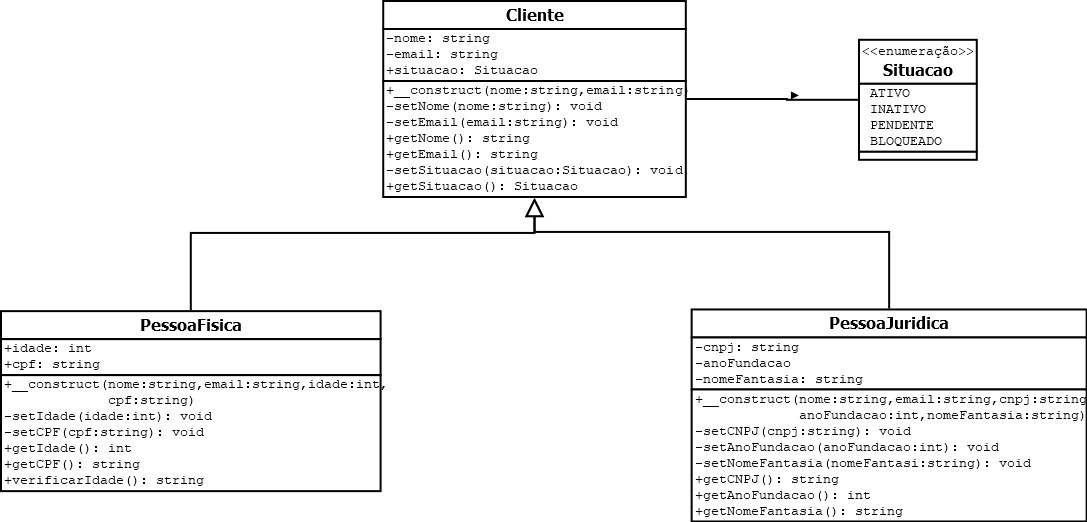
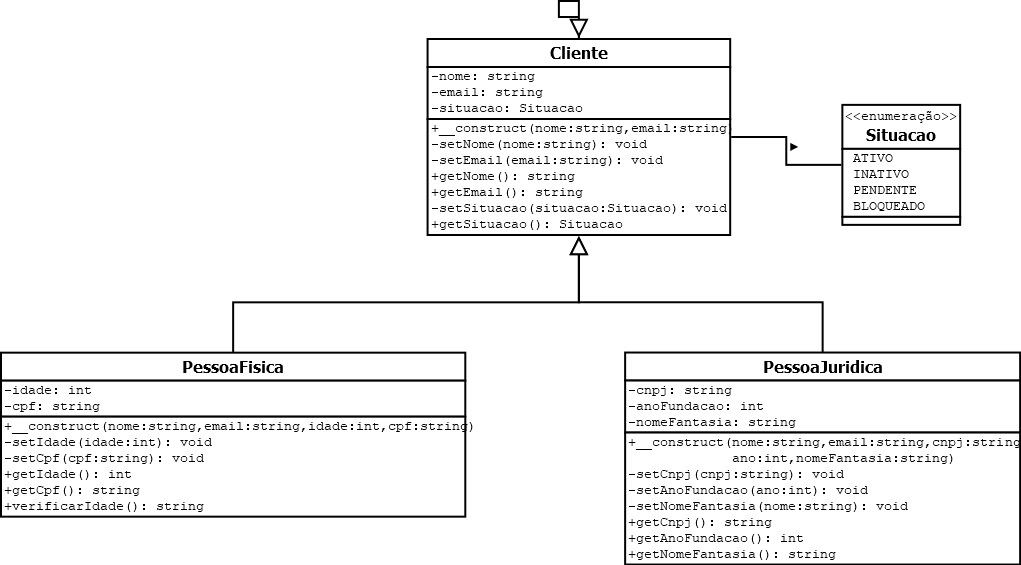
Atualiza

diff --git a/src/Models/PessoaJuridica.php b/src/Models/PessoaJuridica.php
@@ -1,58 +1,51 @@
 <?php
 /* Classe Final: não permite herança, ou seja, não será possível
 criar uma subclasse que extenda PessoaJuridica */
-final class PessoaJuridica extends Cliente
-{
+final class PessoaJuridica extends Cliente {
     private string $cnpj;
     private int $anoFundacao;
     private string $nomeFantasia;
 
-    public function __construct(string $nome, string $email, string $cnpj, int $anoFundacao, string $nomeFantasia)
+    public function __construct(
+        string $nome, string $email, string $cnpj, int $ano, string $nomeFantasia)
     {
         parent::__construct($nome, $email);
-        $this->setCNPJ($cnpj);
-        $this->setAnoFundacao($anoFundacao);
+
+        $this->setCnpj($cnpj);
+        $this->setAnoFundacao($ano);
         $this->setNomeFantasia($nomeFantasia);
 
-        /* Como o método foi definido na superclasse como protected, agora é possível usá-lo para mudar a situaçãode PJ  */
+        /* Como o método foi definido na superclasse como protected,
+        agora é possível usá-lo para mudar a situação de PJ. */
         $this->setSituacao(Situacao::PENDENTE);
     }
 
-    /* Método polimórfico, ou seja, ele sobrescreve o método originlamente criado na Superclasse.
+    /* Método polimórfico, ou seja, ele sobreescreve 
+    o método originalmente criado na Superclasse.
     Atenção: os métodos devem ter a mesma assinatura (nome, parâmetros e retorno) */
     public function relatorio(): string
     {
         return "<div>"
-                    .parent::relatorio().
-                    "<p><b>Nome Fantasia: </b> {$this->getNomeFantasia()} </p>
-                    <p><b>CNPJ: </b> {$this->getCNPJ()} </p>
-                </div>";
+            . parent::relatorio() . // opcional
+            "<p><b>Nome Fantasia:</b> {$this->getNomeFantasia()} </p>
+            <p><b>CNPJ:</b> {$this->getCnpj()} </p>
+        </div>";
     }
 
-    private function setCNPJ(string $cnpj): void
-    {
+
+    private function setCnpj(string $cnpj): void {
         $this->cnpj = $cnpj;
     }
 
-    private function setAnoFundacao(int $anoFundacao): void
-    {
-        $this->anoFundacao = $anoFundacao;
+    private function setAnoFundacao(int $ano): void {
+        $this->anoFundacao = $ano;
     }
 
-    private function setNomeFantasia(string $nomeFantasia): void
-    {
-        $this->nomeFantasia = $nomeFantasia;
+    private function setNomeFantasia(string $nome): void {
+        $this->nomeFantasia = $nome;
     }
-    public function getCNPJ(): string
-    {
-        return $this->cnpj;
-    }
-    public function getAnoFundacao(): int
-    {
-        return $this->anoFundacao;
-    }
-    public function getNomeFantasia(): string
-    {
-        return $this->nomeFantasia;
-    }
+
+    public function getCnpj(): string {  return $this->cnpj; }
+    public function getAnoFundacao(): int {  return $this->anoFundacao; }
+    public function getNomeFantasia(): string {  return $this->nomeFantasia; }
 }

diff --git a/src/Models/Cliente.php b/src/Models/Cliente.php
@@ -7,52 +7,61 @@ abstract class Cliente
     private string $email;
     private Situacao $situacao;
 
-    /* Definindo a situação INATIVO como valor padrão para o parâmetro situacao no construtor */
-    public function __construct(string $nome,string $email, Situacao $situacao = Situacao::INATIVO)
+    /* Definindo a situação INATIVO como valor padrão 
+    para o parâmetro situacao no construtor. */
+    public function __construct(
+        string $nome, string $email, Situacao $situacao = Situacao::INATIVO
+        )
     {
         $this->setNome($nome);
         $this->setEmail($email);
         $this->setSituacao($situacao);
     }
 
-    public function relatorio():string{
+    public function relatorio():string {
         return "<div>
-                    <h4>".$this->getNome()."</h4> 
-                    <p><b>Contato: </b> {$this->getEmail()} </p>
-                </div>";
-        }
+            <h4> {$this->getNome()} </h4>
+            <p> <b>Contato:</b> {$this->getEmail()}</p>
+        </div>";
+    }
 
-    /* Visibilidade protegida: Desta forma este método pode ser usado em SUPERCLASSES e também nas SUBCLASSES. O acesso externo continua bloqueado  */
-    protected function setSituacao(Situacao $situacao):void
-    {
+    /* Visibilidade protegida: desta forma, este método
+    pode ser usado aqui em Cliente (superclasse) e também nas subclasses.
+    O acesso externo (no nosso caso, em index) continua sendo bloqueado. */
+    protected function setSituacao(Situacao $situacao):void {
         $this->situacao = $situacao;
     }
 
-    public function getSituacao(): Situacao
-    {
+    public function getSituacao():Situacao { 
         return $this->situacao;
     }
-    
-    private function setNome(string $nome):void
+
+
+
+    private function setNome(string $nome): void 
     {
         $this->nome = $nome;
     }
-   
-    private function setEmail(string $email):void
+
+
+    private function setEmail(string $email): void 
     {
-        if (!filter_var($email, FILTER_VALIDATE_EMAIL)) {
+        if( !filter_var($email, FILTER_VALIDATE_EMAIL) ){
             throw new InvalidArgumentException("E-mail inválido!");
         }
+
         $this->email = $email;
     }
 
-    public function getNome():string
+    public function getNome(): string 
     {
         return $this->nome;
     }
 
-    public function getEmail():string
+
+    public function getEmail(): string 
     {
         return $this->email;
     }
+    
 }

diff --git a/index.php b/index.php
@@ -3,20 +3,21 @@
 <head>
     <meta charset="UTF-8">
     <meta name="viewport" content="width=device-width, initial-scale=1.0">
-    <title>Exemplo 05</title>
+    <title>Exemplo 06</title>
 </head>
 <body>
-    <h1>PHP com POO - Exemplo 05</h1>
+    <h1>PHP com POO - Exemplo 06</h1>
     <hr>
 
 <?php
-require_once "src/Enums/Situacao.php"; // Enumeração
-require_once "src/Models/Cliente.php"; // Super Classe
-require_once "src/Models/PessoaFisica.php"; // Sub Classe
-require_once "src/Models/PessoaJuridica.php"; // Sub Classe
+require_once "src/Enums/Situacao.php"; // Enum
+require_once "src/Models/Cliente.php"; // Superclasse
+require_once "src/Models/PessoaFisica.php"; // Subclasse
+require_once "src/Models/PessoaJuridica.php"; // Subclasse
 
-$clientePF = new PessoaFisica("Kelly", "kelly.sabioni@gmail.com", 15, "222.222.222-22"); 
-$clientePJ = new PessoaJuridica("João Pedro", "jp@gmail.com", "12.123.123/0001-45", 2019, "Corporação Tabajara"); 
+$clientePF = new PessoaFisica("Tiago", "tiago@gmail.com", 30, "123.456.789-00");
+$clientePJ = new PessoaJuridica(
+    "João Pedro", "joao@tabajara.com", "32.789.5555/000-1", 2019, "Corporação Tabajara");
 
 /* Código abaixo dará erro, pois Cliente é uma classe abstrata, 
 portanto, não podemos criar objeto a partir dela. */
@@ -28,16 +29,19 @@ definir/usar uma subclasse que extenda PessoaJuridica (que é uma classe final) 
 //require_once "src/Models/MEI.php";
 //$clienteMEI = new MEI("AAA", "a@a.com", "123", 2025, "aaaaAA");
 //var_dump($clienteMEI);
-
 ?>
+    <h2>Relatórios</h2>
+    
+    <h3>PF</h3>
+    <?=$clientePF->relatorio()?>
+    
+    <!-- Acessamos as opções do Enum através do getSituacao()->name -->
+    <p><b>Situação:</b> <?=$clientePF->getSituacao()->name?> </p>
+    
+    <h3>PJ</h3>
+    <?=$clientePJ->relatorio()?>
+    <p><b>Situação:</b> <?=$clientePJ->getSituacao()->name?> </p>
 
-<h2>Relatórios</h2>
-
-<h3>PF</h3>
-<?=$clientePF->relatorio() ?>
-
-<h3>PJ</h3>
-<?=$clientePJ->relatorio() ?>
 
 </body>
 </html>

diff --git a/src/Models/PessoaFisica.php b/src/Models/PessoaFisica.php
@@ -4,40 +4,46 @@ final class PessoaFisica extends Cliente
     private int $idade;
     private string $cpf;
 
-    // Método Construtor (sempre é executado automaticamente ao criar objeto)
-    public function __construct(string $nome, string $email, int $idade,string $cpf)
+    public function __construct(
+        string $nome, string $email, int $idade, string $cpf)
     {
-        /* Chamando o construtor da superclasse (Cliente) e repassamos para ele nome e email */
-        parent::__construct ($nome, $email);
-        
+        /* Chamamos o construtor da superclasse (Cliente)
+        e repassamos para ele nome e email */
+        parent::__construct($nome, $email);
+
         $this->setIdade($idade);
-        $this->setCPF($cpf);
+        $this->setCpf($cpf);
     }
 
-    public function verificarIdade():string{
-        if ($this->idade <18) return "menor de idade";
-        if ($this->idade <60) return "adulto";
-        return "idoso";
-    }
-
-    private function setIdade(int $idade):void
+    private function setCpf(string $cpf): void 
     {
-        if ($idade < 0 ) {
-            throw new InvalidArgumentException("Idade não pode ser menor que 0");
-        }
-        $this->idade = $idade;
-    }
-
-    private function setCPF(string $cpf):void{
         $this->cpf = $cpf;
     }
- 
-    public function getIdade():int
+
+    public function getCpf(): string 
+    {
+        return $this->cpf;
+    }
+
+
+    public function getIdade(): int
     {
         return $this->idade;
     }
-    public function getCPF():string
+
+    private function setIdade(int $idade): void 
     {
-        return $this->cpf;
+        if($idade < 0){
+            throw new InvalidArgumentException("Idade não pode ser negativa");
+        }
+
+        $this->idade = $idade;
+    }
+
+
+    public function verificarIdade(): string {
+        if( $this->idade < 18 ) return "menor de idade";
+        if( $this->idade < 60 ) return "adulto";
+        return "idoso";
     }
 }

diff --git a/src/Enums/Situacao.php b/src/Enums/Situacao.php
@@ -1,6 +1,5 @@
 <?php
-enum Situacao
-{
+enum Situacao {
     case ATIVO;
     case INATIVO;
     case PENDENTE;

diff --git a/README.md b/README.md
@@ -4,14 +4,18 @@
 
 - Métodos de mesma assinatura (nome, parâmetros, retorno) mas com comportamentos diferentes
 - [Herança] Indicação de classes abstrata e final
+- [Enumeração] Uso da propriedade `name` para acesso as opções do `Enum`
 
-## 04_heranca-e-enumeracao
+
+## 04_heranca-e-enumeracoes
+
 - Superclasse e subclasse
 - Readequação de propriedades
 - Ajustes nas chamadas de construtor, usando `parent` para acessar construtor da superclasse
-- Uso de enumeração para criar um tipo de dado com valores customizados 
+- Uso de enumeração para criar um tipo de dado com valores customizados
 - Alteração de visibilidade para protected em um método da superclasse, permitindo assim o acesso a partir da subclasse
-- Organização das pastas e arquivos em `SRC`
+- Organização das pastas e arquivos em `src`
+
 
 ## 03_encapsulamento-e-metodo-construtor
 
@@ -19,12 +23,14 @@
 - Chamada dos setters a partir do construtor
 - Mudança de visibilidade dos setters para privado
 
+
 ## 02_encapsulamento-para-visibilidade
 
 - Utilização de diferentes visibilidades (private e public)
-- Controle da forma como acessados (getters) e modificados (setters)
+- Controle da forma como os dados são acessados (getters) e modificados (setters)
 - Com esta abordagem, podemos esconder detalhes de implementação da classe
-- Podemos atribuir diferentes lógicas de negócio (validações, sanitizações, etc)
+- Podemos atribuir diferentes lógicas de negócio (validações, sanitizações etc)
+
 
 ## 01_abstracao-usando-classes-atributos-metodos
 
